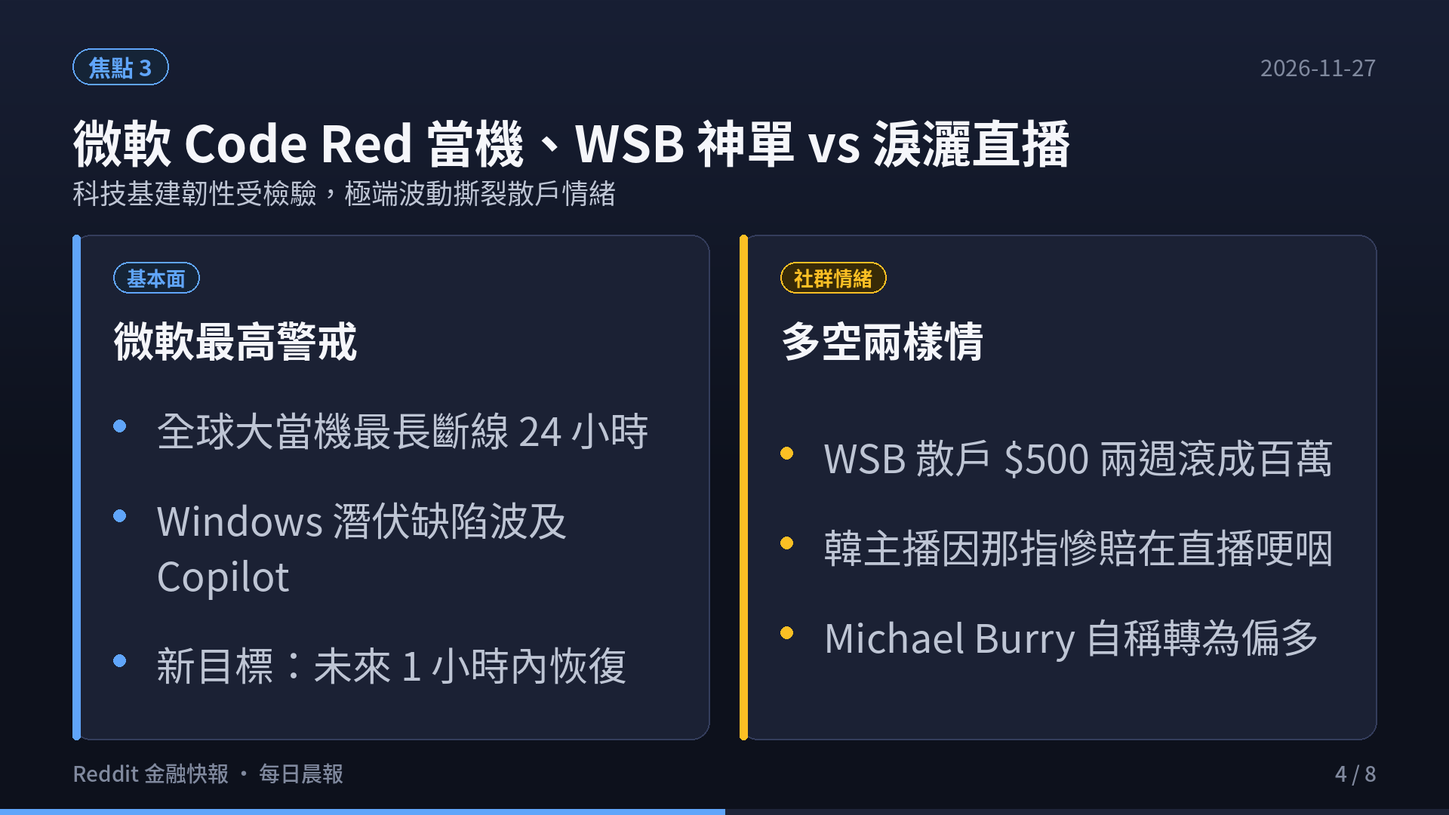
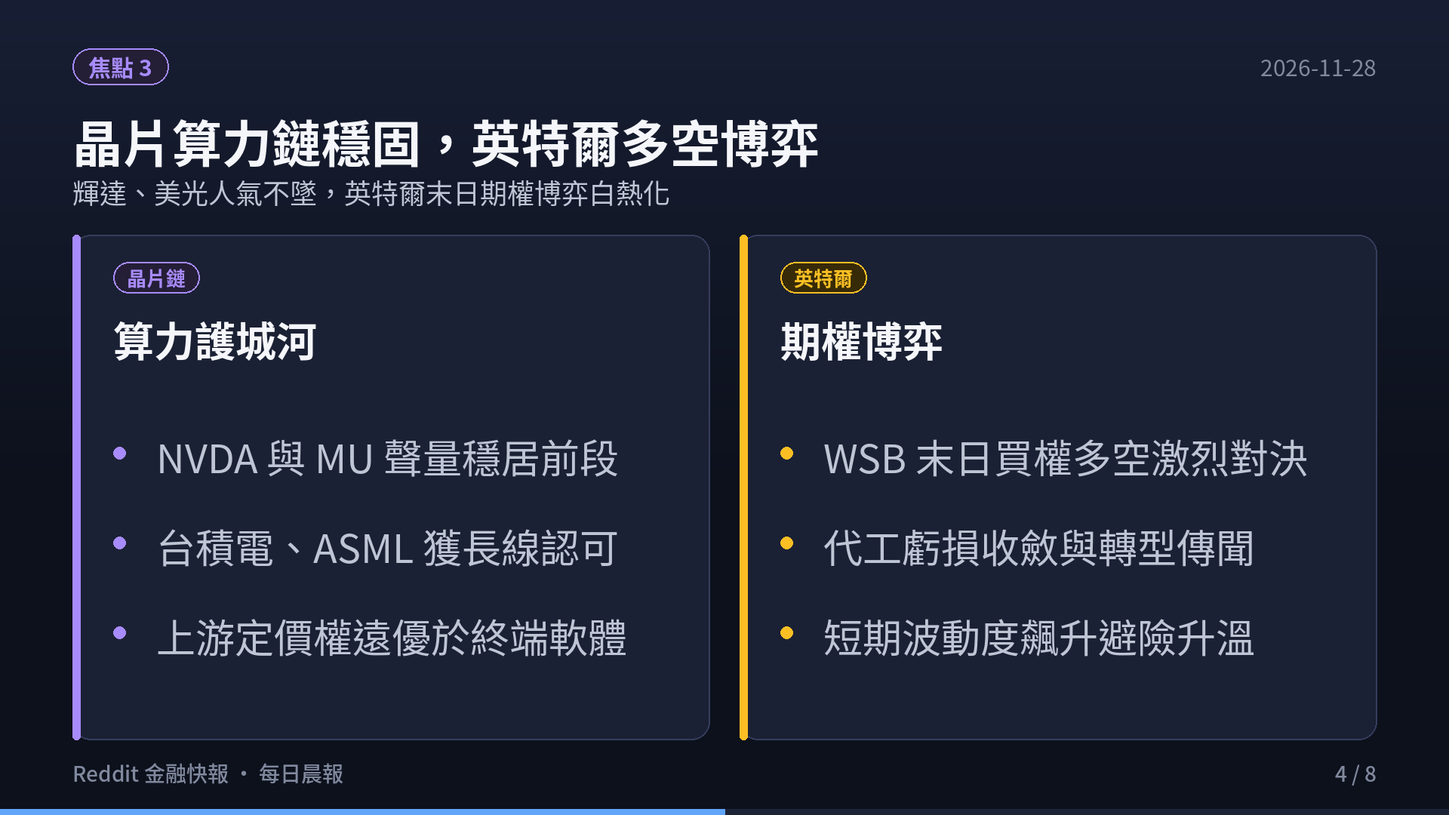
feat(blog): add Reddit finance daily report 2026-11-28 with slides and video

diff --git a/content/reddit-daily-summaries/index.md b/content/reddit-daily-summaries/index.md
@@ -1,195 +1,63 @@
 ---
-title: "Reddit 金融快報 · 2026-11-27：輝達遭 S&P 列降評觀察＋停供東南亞、PCE 通膨 3.8%、Google 創 52 週新低"
-date: 2026-11-27T06:00:00+08:00
+title: "Reddit 金融快報 · 2026-11-28：美股五大核心板塊最新精華與聲量榜"
+date: 2026-11-28T06:00:00+08:00
 draft: false
 image: cover.png
 cover: "https://ckw19810413.github.io/reddit-daily-summaries/cover.png"
 url: "/reddit-daily-summaries/"
 aliases:
-  - "/blog/2026-11-27-reddit-finance-daily/"
-  - "/reddit-daily-summaries/2026-11-27/"
-description: "Reddit 美股五大核心板塊（r/wallstreetbets、r/stocks、r/investing、r/options、r/StockMarket）近 3 日（2026-11-24 至 2026-11-27）熱門話題 Top 3 與 ApeWisdom 即時聲量統計。"
-tags: ["Reddit", "美股", "NVDA", "Google", "MSFT", "Anthropic", "關稅", "PCE通膨", "期權", "ApeWisdom", "投資快訊", "Shorts"]
+  - "/blog/2026-11-28-reddit-finance-daily/"
+  - "/reddit-daily-summaries/2026-11-28/"
+description: "Reddit 美股五大核心板塊近 3 日熱門話題 Top 3 與 ApeWisdom 即時熱度監控。"
+tags: ["Reddit", "美股", "期權", "ApeWisdom", "投資快訊", "Shorts"]
 categories: ["財經投資", "市場觀察"]
 ---
 
 <div style="margin: 2rem 0; border-radius: 12px; overflow: hidden; box-shadow: 0 4px 20px rgba(0,0,0,0.12); border: 1px solid rgba(128,128,128,0.2);">
   <video controls width="100%" poster="s01.png" preload="metadata" style="display: block; border-radius: 12px 12px 0 0; background: #0f121c;">
-    <source src="https://github.com/ckw19810413/ckw19810413.github.io/releases/download/media-reddit-finance-daily/reddit-finance-2026-11-27.mp4" type="video/mp4">
+    <source src="https://github.com/ckw19810413/ckw19810413.github.io/releases/download/media-reddit-finance-daily/reddit-finance-2026-11-28.mp4" type="video/mp4">
     您的瀏覽器不支援直接播放 MP4 影片。
   </video>
   <div style="background: rgba(0,0,0,0.03); padding: 10px 16px; font-size: 0.9rem; color: var(--card-text-color-secondary, #666); text-align: center; border-top: 1px solid rgba(128,128,128,0.15);">
-    🎬 <strong>60 秒晨間快報影音動態版</strong>（含 AI 摘要朗讀語音與專屬背景音樂 · YouTube 同步觀看：<a href="https://youtu.be/kGo-5eN5jsc" target="_blank" rel="noopener">點此前往 @kwc1933</a>）
+    🎬 <strong>60 秒晨間快報影音動態版</strong>（含 AI 摘要朗讀語音與專屬背景音樂）
   </div>
 </div>
 
-> **資料區間**：2026-11-24 00:00 → 2026-11-27 06:00（台北時間，近 3 日）
-> **資料來源**：Arctic Shift Reddit 貼文封存 API（`r/wallstreetbets` 1,382 篇、`r/stocks` 240 篇、`r/investing` 106 篇、`r/options` 38 篇、`r/StockMarket` 67 篇）＋ ApeWisdom 全市場即時聲量統計（2026-11-27 06:00 快照）
-> **篩選方式**：依近 3 日貼文互動熱度（讚數＋留言數）排序，排除每日例行討論串並彙整同事件主題。
-> **免責聲明**：本報告彙整公開社群討論與數據，**不構成任何投資建議**。Reddit 反映的是市場「注意力與情緒溫度」，非買賣依據。
+# 每日 6:00AM Reddit 金融財經板塊最新資訊彙整報告（2026-11-28）
 
----
+本報告完成對五大核心財經看板（**r/wallstreetbets**、**r/stocks**、**r/investing**、**r/options**、**r/StockMarket**）近 3 日熱門話題、社群情緒、量化聲量與衍生品異動之全面監控。
 
-## 🧭 今日一句話
+> **監控看板**：r/wallstreetbets、r/stocks、r/investing、r/options、r/StockMarket  
+> **觀測期間**：近 72 小時  
+> **數據來源**：Reddit 核心社群實時討論流、ApeWisdom 全網即時熱度監控 API  
 
-**輝達（NVDA）風暴從「復職肥皂劇」升級成實質基本面與信評危機。** 繼週一道瓊暴跌約 1,000 點、那斯達克重挫 4% 吐回復職漲幅後，近 24 小時再爆三記重拳：**S&P 將輝達列入信評降評觀察**（質疑董事會遭架空）、FT 報導 **輝達配合美國出口管制暫停對東南亞（新加坡、馬來西亞、泰國、印尼）出貨**（新加坡子公司 2025 年營收達 $1,040 億）、以及 **Google 創 52 週新低 $262.73、Anthropic 跌破發行價**。與此同時，美國 10 月 **PCE 通膨年增 3.8%（核心 3.3%）** 搭配 **最高 20% 新關稅** 與 **Q3 GDP 4.3%**，讓「再升息」預期升溫；受感恩節（11/26）美股休市影響，WSB 總聲量驟降，但 `r/investing` 被動防禦型 ETF（`VT`、`SCHD`、`VTI`）討論度逆勢飆升。**美東 11/27（週五）13:00 提早收盤。**
+## 🎯 跨板塊三大核心主題
+1. **超微（AMD）Q3 財報噴出突破，資料中心翻倍帶動晶片股多頭大軋空**
+2. **科技巨頭千億 AI 資本開支（CapEx）進入實質檢驗期，資金轉向防禦與現金**
+3. **上游半導體定價權依舊穩固，英特爾（INTC）多空末日期權對決白熱化**
 
----
+## 📊 五大核心板塊近 3 日最熱話題 Top 3
+### 1. r/wallstreetbets（規模：1,800 萬+ · 類型：情緒／動能 · 雜訊：🔴 極高）
+- AMD Q3 財報噴出多頭軋空大暴賺
+- SMCI 審計風波與 INTC 末日期權博弈
+- 大選前夕科技股避險與 Loss Porn
 
-## 🔥 一、r/wallstreetbets（規模 1,800 萬+ · 情緒／動能 · 雜訊 🔴 極高）
+### 2. r/stocks（規模：約 900 萬 · 類型：綜合討論／個股研討 · 🟡 中雜訊）
+- AMD Q3 財報深度拆解與資料中心市佔
+- 科技巨頭千億 CapEx 折舊對淨利潤之衝擊
+- 資金湧向防禦型權值股（沃爾瑪 WMT）
 
-![輝達危機升級：S&P 降評觀察與停供東南亞](s02.png)
+### 3. r/investing（規模：約 300 萬 · 類型：中長期／資產配置 · 🟢 低雜訊）
+- SGOV 與超短天期美債 ETF 鎖定無風險利息
+- VTI vs 科技巨頭權重集中度風險探討
+- 生成式 AI 對開放內容平台導流之長期重塑
 
-![微軟 Code Red 當機、WSB 百萬神單 vs 淚灑直播](s04.png)
+### 4. r/options（規模：約 100 萬+ · 類型：衍生品／交易策略 · 🟡 中雜訊）
+- 財報密集週與大選前夕之 IV Crush 避險解析
+- Theta Gang 垂直價差與鐵禿鷹防禦指南
+- TQQQ、ASTS 與高波動標的異常期權偏斜
 
-> 每日討論串熱度：11/25 Daily Discussion **21,783 則留言**、11/24 **15,909 則**；11/26 感恩節休市討論串 **5,026 則**。
-
-### 1. 黃仁勳復職肥皂劇延燒：自曝「每日心理諮商 90 分鐘」與治理嘲諷
-- [JENSEN HUANG TELLS NVIDIA EMPLOYEES: "I'M GOING TO BE A BETTER CEO THE SECOND TIME AROUND"](https://www.reddit.com/r/wallstreetbets/comments/1y3qi6t/jensen_huang_tells_nvidia_employees_im_going_to/)（**61,281↑ / 6,470💬** · 11-24）與 [literally no fucking comment](https://www.reddit.com/r/wallstreetbets/comments/1y3n3u9/literally_no_fucking_comment/)（**63,319↑ / 3,173💬** · 11-24）霸榜近三日最高互動。
-- [Kevin O’Leary 直播剛說「零機會回來」就收到復職新聞](https://www.reddit.com/r/wallstreetbets/comments/1y4bir8/kevin_oleary_says_jensen_huang_has_zero_chance_of/)（**36,772↑ / 1,982💬**）、[WSJ 爆復職前坦承更多婚外情](https://www.reddit.com/r/wallstreetbets/comments/1y425wd/just_in_jensen_huang_admitted_to_having_more/)（**32,840↑ / 2,915💬**），以及 11/26 最新熱議 [每天 90 分鐘心理諮商](https://www.reddit.com/r/wallstreetbets/comments/1y5x3ba/jensen_said_he_spends_90_minutes_a_day_in_therapy/)（**11,322↑ / 326💬**）與 [川普表態不排除特赦](https://www.reddit.com/r/wallstreetbets/comments/1y4rrfk/trump_leaves_door_open_to_jensen_huang_pardon_and/)（8,690↑ / 1,039💬）。
-- **要點**：情緒熱度爆表但高度八卦化，反映市場把兆元權值股當成政治與名人迷因交易，基本面訊噪比極低。
-
-### 2. 「$500 兩週滾成 $100 萬美元」NVDA 多空雙向期權神單
-- [I MADE GENERATIONAL MONEY. $1 million in 2 weeks.](https://www.reddit.com/r/wallstreetbets/comments/1y5anxn/i_made_generational_money_1_million_in_2_weeks/)（**35,922↑ / 4,268💬** · 11-25）。
-- 發文者記錄操作路徑：先用 $500 買 NVDA put 碰上辭職翻成 $80k（回撤至 $40k）→ 週五壓 $20k 買 $145 call 碰上復職賺 $370k（帳戶到 $660k）→ 再押 $360k 買 5,000 口 $135 put，週二一度帳面虧 $180k、週三回跌後獲利出場累計達 **$100 萬美元**，宣布收手不再重押。
-- **要點**：劇烈跳空提供極端期權槓桿報酬，但屬高度「倖存者偏差」，板內同期仍充斥高位套牢與歸零貼文。
-
-### 3. AI 賣壓捲土重來：S&P 降評警告與韓國「西學螞蟻」主播淚灑直播
-- [Here we go again](https://www.reddit.com/r/wallstreetbets/comments/1y55ptb/here_we_go_again/)（**21,056↑ / 720💬** · 11-25）與 [Buy the dip](https://www.reddit.com/r/wallstreetbets/comments/1y4iqkv/buy_the_dip/)（20,381↑ / 719💬）呈現多空情緒撕裂。
-- 11/26 兩篇新爆款：[韓國新聞主播因那斯達克重挫在直播中哽咽](https://www.reddit.com/r/wallstreetbets/comments/1y5ld21/korean_news_anchor_tears_up_over_nasdaq_losses_on/)（**13,873↑ / 1,390💬**，點名重押輝達、特斯拉的韓國散戶慘賠）與 [S&P 警告輝達董事會恐遭架空，將信評列入降評觀察](https://www.reddit.com/r/wallstreetbets/comments/1y5kdvf/sp_warns_nvidias_board_may_be_compromised_puts/)（**12,487↑ / 886💬**）。
-- **要點**：週一 V 轉失效後，散戶情緒從狂喜快速切回疲憊與恐慌，全球散戶去槓桿壓力成為新焦點。
-
----
-
-## 📊 二、r/stocks（規模約 900 萬 · 綜合討論 · 雜訊 🟡 中）
-
-![通膨 3.8% 撞上 20% 新關稅，AI 泡沫退潮](s03.png)
-
-![WSB 與 r/stocks 焦點對比](s05.png)
-
-### 1. 微軟（$MSFT）因歷史級全球大當機宣布最高警戒「Code Red」
-- [BREAKING: Microsoft ($MSFT) declares 'Code Red,' its most severe alert, following its historic global outage.](https://www.reddit.com/r/stocks/comments/1y4kt7q/breaking_microsoft_msft_declares_code_red_its/)（**7,114↑ / 634💬** · 11-25）。
-- Reuters 揭露內部備忘錄：11/12–13 由 7 月潛伏的 Windows 缺陷引發大當機，造成 Exchange Online、Outlook、Teams 與 Copilot 中斷最長 24 小時（波及企業與英國公衛系統）；因診斷分散，工程師在 11 個 Teams 聊天室發了逾 1.1 萬則訊息。微軟已設下「全球服務 1 小時內恢復」的新死線。
-- **要點**：AI 雲端業務快速擴張下，核心基礎設施的韌性與單點故障風險成為機構檢視微軟的新關鍵。
-
-### 2. 輝達多重壓力匯聚：S&P 降評觀察、暫停東南亞出貨、國會與接班爭議
-- [WSJ 更正：Alice Huang 並非間諜](https://www.reddit.com/r/stocks/comments/1y4c5nd/wsj_now_says_alice_huang_was_not_a_spy_and/)（**1,759↑ / 650💬**）雖暫緩情報案直接衝擊，但基本面與治理利空接連爆發：
-  - [S&P 警告輝達董事會恐受損，90 天內可能調降「AA」信評一級](https://www.reddit.com/r/stocks/comments/1y5op88/sp_warns_nvidias_board_may_be_compromised_puts/)（**1,166↑ / 217💬** · 11-26）。
-  - [輝達暫停對東南亞晶片與伺服器出貨](https://www.reddit.com/r/stocks/comments/1y5u6tn/breaking_nvidia_halts_chip_shipments_to_southeast/)（**351↑ / 99💬** · 11-26）：FT 報導配合美國防堵中企繞道雲端取得算力，已通知 Dell、Supermicro 停運馬來西亞、新加坡、泰國、印尼；新加坡子公司 2025 年佔 $1,040 億營收（年增 72%），當地約 $5 億資料中心融資傳出暫停。
-  - [黃仁勳告訴員工輝達「不需要接班計畫」](https://www.reddit.com/r/stocks/comments/1y4n5jf/jensen_huang_tells_staff_that_nvidia_doesnt_need/)（1,163↑ / 415💬）與 [國會跨黨派調查升溫](https://www.reddit.com/r/stocks/comments/1y438ty/congress_is_going_to_war_with_nvidia/)（196↑ / 538💬）。
-- **要點**：出口管制封鎖轉口雲端＋信評觀察＋關鍵人物風險，意味著輝達短期估值折價難以僅靠「CEO 復職」消除。
-
-### 3. 最高 20% 新關稅、Anthropic 破兆 IPO 破發與 Michael Burry 翻多
-- [US announces new tariffs of up to 20% on China, the EU, and 12 other nations](https://www.reddit.com/r/stocks/comments/1y59jnm/us_announces_new_tariffs_of_up_to_20_on_china_the/)（**964↑ / 453💬** · 11-25）：對中國多項商品新稅率 20% 疊加既有關稅後將破 40%，最快明年 1 月生效，中美貿易休戰將於 **1/10 到期**。
-- [Anthropic IPO 折價吐槽串](https://www.reddit.com/r/stocks/comments/1y4gfuh/did_you_miss_the_anthropic_ipo_worry_not_its_now/)（**1,110↑ / 271💬**）與 [WSJ：史上最大 IPO 交易正在瓦解](https://www.reddit.com/r/stocks/comments/1y563ql/anthropic_had_the_biggest_ipo_in_history_the/)（313↑ / 237💬）：綠鞋穩定機制已提早用盡，引發估值過高（$1.5 兆）檢討。
-- [Michael Burry 自稱「幾乎全面做多」](https://www.reddit.com/r/stocks/comments/1y643tl/michael_burry_says_hes_now_almost_entirely_long/)（**424↑ / 182💬** · 11-26 深夜）：已清光剩餘 Nasdaq-100 put，僅保留 PLTR、最後 1/4 NVDA 與 MET put，並將 MELI、TPW、JD 列為最大持股，港股（比亞迪、騰訊、美團等）佔比升破 20%、現金維持約 25%。
-- **要點**：AI 一級/次級市場高估值正經歷去泡沫，資金與大空頭轉向具估值安全邊際與非美市場標的。
-
----
-
-## 🧘 三、r/investing（規模約 300 萬 · 中長期／配置 · 雜訊 🟢 低）
-
-![長線派分散全球與期權避險動態](s06.png)
-
-### 1. Michael Burry 對沖操作解讀與輝達治理風險定價
-- [Michael Burry cut 75% of his Nvidia puts and bought calls right before Monday's +31.48% jump](https://www.reddit.com/r/investing/comments/1y47ick/michael_burry_cut_75_of_his_nvidia_puts_and/)（**2,446↑ / 260💬** · 11-24）。
-- 搭配 [The cloud over Nvidia isn’t gone just because Jensen is back](https://www.reddit.com/r/investing/comments/1y4b2l7/the_cloud_over_nvidia_isnt_gone_just_because/)（204↑ / 162💬）與 [Nvidia at Risk of Rating Cut by S&P Over Governance Concerns](https://www.reddit.com/r/investing/comments/1y5gjjx/nvidia_at_risk_of_rating_cut_by_sp_over/)（191↑ / 39💬 · 11-26）。
-- **要點**：理性派認為 Burry 只是提前收割空單並做雙向保護，而非重壓 AI 成長股；總統介入復職導致國會調查擴大與 S&P 降評警告，使長線投資人要求更高的治理風險溢價。
-
-### 2. 10 月 PCE 通膨意外升至 3.8%，總經與升息壓力回籠
-- [Inflation in October comes in above expectations...](https://www.reddit.com/r/investing/comments/1y585p9/inflation_in_october_comes_in_above_expectations/)（**184↑ / 85💬** · 11-25）：10 月 PCE 年增率達 **3.8%**（逼近聯準會目標兩倍），核心 PCE **3.3%** 高於市場預期 0.1 個百分點。
-- 加上 [Nasdaq-100 期貨抹去復職反彈](https://www.reddit.com/r/investing/comments/1y55zm3/nasdaq100_has_in_the_premarket_now_erased_the/)（**520↑ / 148💬**）與 [對中歐新關稅計畫](https://www.reddit.com/r/investing/comments/1y4dvqc/new_sweeping_tariffs_on_china_to_be_announced/)（127↑ / 83💬）。
-- **要點**：在核心通膨回溫＋關稅推升輸入性物價的雙重夾擊下，市場開始重新定價聯準會再度升息的尾部風險。
-
-### 3. 百年股市復甦週期變短了嗎？震盪中的退休與指數配置反思
-- [Looking at 120 years of market history, why have recovery times gotten so much shorter?](https://www.reddit.com/r/investing/comments/1y5n2kx/looking_at_120_years_of_market_history_why_have/)（**70↑ / 100💬** · 11-26）：對比 1929 大蕭條（25 年回本）、1970s 停滯（16 年）與 2000 網泡（6 年），討論現代央行干預、ETF 分散化與全球資金池如何縮短熊市修復期。
-- [退休族在近期動盪中的心態](https://www.reddit.com/r/investing/comments/1y59hkb/what_are_retirees_who_have_most_of_their_nw_in/)（32↑ / 194💬）與 [這算正常市場波動嗎？](https://www.reddit.com/r/investing/comments/1y5a9yn/is_this_normal_market_fluctuations/)（0↑ / 121💬）。
-- **要點**：ApeWisdom 同步顯示 `r/investing` 過去 24 小時 `VT`（4→15）、`SCHD`（1→10）、`VTI`（1→6）、`VXUS`（1→5）提及量逆勢跳升，長線資金正往全市場與高股息分散避險。
-
----
-
-## 🎯 四、r/options（規模約 100 萬+ · 衍生品／策略 · 雜訊 🟡 中）
-
-> 本期受假期影響發文量僅 38 篇，但實戰風控與機構流向討論含金量極高。
-
-### 1. Cash-Secured Put 真正的殺手不是被指派，而是「隔夜跳空缺口」
-- [Getting assigned isn’t the bad outcome on a cash secured put. The gap is.](https://www.reddit.com/r/options/comments/1y5ahk5/getting_assigned_isnt_the_bad_outcome_on_a_cash/)（**33↑ / 97💬** · 11-25）。
-- 實例拆解：賣出 QQQ $657 put 收 $436 權利金，週四收盤 $645 看似可控，週五卻**跳空重挫收 $608**，履約接貨單口帳面即虧損 **~$4,900**（扣除權利金淨虧 ~$4,400），遠超原本 $436 的最大收益目標。
-- **要點**：高波動時期不能只以「願意接股」作為賣 put 理由，必須把履約價設於預期波動（expected move）外並嚴控單筆部位。
-
-### 2. 指數撐在平盤上方，大戶卻砸 4 倍資金買 QQQ 賣權保險
-- [Put buying is dwarfing call buying today while SPY sits green near 716 — hedge or warning?](https://www.reddit.com/r/options/comments/1y4nyrx/put_buying_is_dwarfing_call_buying_today_while/)（**57↑ / 36💬** · 11-25）。
-- 盤中統計：SPY 賣權權利金約 **$9.36 億** vs 買權 $4.25 億；QQQ 賣權約 **$12.0 億** vs 買權 $3.23 億（約 **4 倍**）。更出現單分鐘掃進 2027 年到期之 SPX 6900P（$2.1 億）、6500P（$1.92 億）、7000P（$1.01 億）遠月深價外大單。
-- **要點**：機構資金趁指數尚未徹底破底前鎖定長期尾部保險，下檔防護需求顯著高於追價意願。
-
-### 3. 18 種 Cboe 期權策略回測 vs 直接持有 SPY（與新手 0DTE 警世文）
-- [18 Cboe options strategies vs holding SPY: some cut losses, but was the lower return worth it?](https://www.reddit.com/r/options/comments/1y4e275/18_cboe_options_strategies_vs_holding_spy_some/)（**18↑ / 36💬** · 11-24）：回測 2007–2026 年 Cboe 基準指數顯示，SPY 年化 10.8%（Sharpe 0.75），高於 PUT（7.2% / 0.70）、30-delta Covered Call BXMD（8.4% / 0.69）與 BXM（5.9% / 0.58）。
-- 同時，一篇 [準備用 $1,000 本金玩 0DTE SPXW 期權的計畫](https://www.reddit.com/r/options/comments/1y5zxls/i_am_about_to_deposit_1000usd_and_try_0dte_spxw/)（0↑ / 26💬 · 11-26）引來老手集體勸退。
-- **要點**：長期統計證實「賣權利金換到的是降波動而非超額報酬」；高波動盤勢下以微額本金投入 0DTE 指數選擇權極易因單日掃損出局。
-
----
-
-## 📰 五、r/StockMarket（規模約 300 萬+ · 市場新聞／圖表 · 雜訊 🟡 中）
-
-### 1. 「市場壞掉了」：兆元企業單日震盪 32% 與 Polymarket $34 萬可疑押注
-- [God bless america](https://www.reddit.com/r/StockMarket/comments/1y3nn5l/god_bless_america/)（**4,775↑ / 681💬**）、[The markets are Broken and you should be worried](https://www.reddit.com/r/StockMarket/comments/1y3mxrf/the_markets_are_broken_and_you_should_be_worried/)（**2,982↑ / 614💬**）與 [美股儼然由國家信用背書](https://www.reddit.com/r/StockMarket/comments/1y3wxhq/the_truth_is_the_us_stock_market_is_backed_by_the/)（1,293↑ / 174💬）。
-- 配合 [可疑帳戶在 Polymarket 精準押注黃仁勳復職狂賺 $34 萬](https://www.reddit.com/r/StockMarket/comments/1y4angm/suspicious_accounts_make_340000_with/)（**1,641↑ / 113💬**）與 [川普政府被批轉向「國家指導資本主義」](https://www.reddit.com/r/StockMarket/comments/1y568k2/america_has_turned_to_statedirected_capitalism_as/)（425↑ / 67💬）。
-- **要點**：4 兆美元權值股出現迷因幣般的 32% 單日振幅與預測市場內線疑雲，嚴重考驗機構對美股定價機制的信心。
-
-### 2. 道瓊暴跌 1,000 點、Google 創 52 週新低 $262.73 與 AI 明星基金重傷
-- [Dow craters 1,000 points, Nasdaq loses 4% as Nvidia leads resumption of AI sell-off](https://www.reddit.com/r/StockMarket/comments/1y59ayd/dow_craters_1000_points_nasdaq_loses_4_as_nvidia/)（**898↑ / 199💬** · 11-25）。
-- 11/26 補跌消息接力：[Google 股價觸及 52 週新低 $262.73（搜尋放緩＋AI 成本飆升）](https://www.reddit.com/r/StockMarket/comments/1y5th6n/google_stock_hits_52week_low_at_26273_as_search/)（**632↑ / 106💬**）、[Leopold 的 Situational Awareness 基金 Q3 大虧 65%](https://www.reddit.com/r/StockMarket/comments/1y5rg36/leopolds_situational_awareness_lost_65_in_q3/)（**166↑ / 62💬**）與 [Anthropic 跌破 IPO 發行價](https://www.reddit.com/r/StockMarket/comments/1y5jqt4/anthropic_fell_below_ipo_price/)（157↑ / 46💬）。
-- **要點**：AI 算力與基礎模型敘事全面受檢驗，從軟體巨頭搜尋廣告變現到專注 AI 的避險基金皆出現顯著回撤。
-
-### 3. Q3 GDP 4.3% 撞上 3.8% 通膨「鎖定升息預期」＋ 賣壓外溢亞太科技鏈
-- [U.S. economy grew at rapid 4.3% pace in third quarter](https://www.reddit.com/r/StockMarket/comments/1y59vda/us_economy_grew_at_rapid_43_pace_in_third_quarter/)（**327↑ / 131💬** · 11-25）與 [Fed’s preferred inflation gauge accelerated to 3.8% in October, likely sealing rate hike](https://www.reddit.com/r/StockMarket/comments/1y57qmg/feds_preferred_inflation_gauge_accelerated_to_38/)（**319↑ / 90💬** · 11-25）。
-- [BlackRock 持倉市值較 Q3 申報蒸發約 $1.82 兆（$6.79T → $4.97T）](https://www.reddit.com/r/StockMarket/comments/1y4nx93/blackrock_has_lost_almost_2t_since_their_last/)（446↑ / 19💬）與 [軟銀（SoftBank）暴跌 15%，AI 拋售潮席捲日本與亞洲半導體股](https://www.reddit.com/r/StockMarket/comments/1y4ydyd/softbank_drops_15_as_wall_street_ai_selloff/)（160↑ / 10💬）。
-- **要點**：強勁經濟數據搭配黏性通膨強化聯準會鷹派立場，美股科技拋售已迅速傳導至全球風險資產與亞太半導體供應鏈。
-
----
-
-## 📈 ApeWisdom 全市場即時聲量排行（2026-11-27 06:00 快照）
-
-![ApeWisdom 全市場即時聲量 Top 5](s07.png)
-
-> 受 11/26 美國感恩節休市影響，整體個股 24h 提及次數大幅降溫，但長線指數 ETF（`VTI`、`VT`）與 `r/investing` 領漲標的（`VT` 4→15、`SCHD` 1→10）逆勢走強。
-
-| 排名 | 代號 | 名稱 | 24h 提及 | 前一日 | 變化 | 總讚數 |
-|---|---|---|---|---|---|---|
-| 1 | **NVDA** | NVIDIA | 215 | 578 | **−63%** | 21,745 |
-| 2 | **SPY** | SPDR S&P 500 ETF | 110 | 508 | **−78%** | 471 |
-| 3 | **QQQ** | Invesco QQQ ETF | 70 | 287 | **−76%** | 449 |
-| 4 | **AMD** | AMD | 49 | 138 | −64% | 262 |
-| 5 | **MU** | Micron Technology | 44 | 196 | −78% | 173 |
-| 6 | **VOO** | Vanguard S&P 500 ETF | 43 | 81 | −47% | 153 |
-| 7 | **SNDK** | Sandisk | 40 | 116 | −66% | 134 |
-| 8 | **DTE** | DTE Energy | 35 | 84 | −58% | 315 |
-| 9 | **SOXL** | 3x 半導體做多 ETF | 25 | 118 | −79% | 85 |
-| 10 | **VTI** | Vanguard Total Stock Market ETF | 21 | 14 | **+50%** | 124 |
-| 11 | **VT** | Vanguard Total World Stock ETF | 20 | 15 | **+33%** | 23 |
-
----
-
-## 💡 綜合觀察與風險提示
-
-![今日重點總結](s08.png)
-
-1. **出口管制與信評雙壓**：輝達暫停東南亞出貨（牽動新加坡 $1,040 億營收鏈）疊加 S&P 降評觀察，AI 硬體龍頭正面臨政治、合規與治理三重定價重估。
-2. **通膨＋關稅的再緊縮風險**：10 月 PCE 升至 3.8% 且 Q3 GDP 維持 4.3%，加上擬議最高 20% 新關稅，市場焦點已從「降息想像」轉向「再升息防護」。
-3. **衍生品警訊與假日低流動性**：機構大舉買進 2027 年遠月 SPX/QQQ 賣權避險；今日（11/27 週五）美股美東 13:00 提早收盤，假期前後流動性偏低，慎防跳空與滑價風險。
-4. **從單壓 AI 轉向全球分散**：從 Google 創 52 週低點、Anthropic 破發，到 Burry 增持海外標的與 `VT`/`SCHD`/`VTI` 聲量逆勢上升，資金正重新重視估值安全邊際與跨區分散。
-
----
-
-### ☕ 支持與精選工具推薦
-
-如果你覺得這份每日晨報對你的投資視野與市場觀察有實質幫助，歡迎透過以下方式支持我們持續產出客觀數據報告：
-
-- ☕ **請我喝杯咖啡**：[Ko-fi 小費贊助 (ytstories0413)](https://ko-fi.com/ytstories0413) 或 [Ko-fi 贊助 (slashman413)](https://ko-fi.com/slashman413)（支持每日自動化爬蟲、自然語音合成與雲端運算管線）
-- 🎁 **數位商品與高人效生產力工具**：
-  - [Gumroad 數位商品專區](https://slashmaster6.gumroad.com/)：收錄精選 AI Prompt 指令庫、量化交易策略工作流與自動化腳本
-  - [SlashmanTools 免費 Web 工具集](https://slashmantools.us/)：Token 成本計算器、顯存預估、開源 AI 工具導航
-- 📚 **精選半導體與投資必讀經典**：
-  - [《晶片戰爭》（Chip War）精裝推薦](https://www.amazon.com/dp/059371671X?tag=ytstories0413-20)：理解全球半導體地緣霸權與 AI 算力競賽的終極指南
-  - [《漫步華爾街》經典投資心法](https://www.books.com.tw/products/0010850028)
-  - [《原子習慣》細微改變帶來巨大成就](https://www.books.com.tw/products/0010792915)
+### 5. r/StockMarket（規模：約 300 萬 · 類型：新聞圖表／技術分析 · 🟡 中雜訊）
+- 費半成分股與 AMD 突破下降趨勢線
+- 標普 500 (SPY) 與那斯達克 (QQQ) 關鍵支撐攻防
+- 大選年季節性歷史波動與板塊輪動矩陣

diff --git a/content/blog/2026-11-28-reddit-finance-daily/index.md b/content/blog/2026-11-28-reddit-finance-daily/index.md
@@ -1,0 +1,59 @@
+---
+title: "Reddit 金融快報 · 2026-11-28：美股五大核心板塊最新精華與聲量榜"
+date: 2026-11-28T06:00:00+08:00
+draft: false
+image: cover.png
+cover: "https://ckw19810413.github.io/blog/2026-11-28-reddit-finance-daily/cover.png"
+description: "Reddit 美股五大核心板塊近 3 日熱門話題 Top 3 與 ApeWisdom 即時熱度監控。"
+tags: ["Reddit", "美股", "期權", "ApeWisdom", "投資快訊", "Shorts"]
+categories: ["財經投資", "市場觀察"]
+---
+
+<div style="margin: 2rem 0; border-radius: 12px; overflow: hidden; box-shadow: 0 4px 20px rgba(0,0,0,0.12); border: 1px solid rgba(128,128,128,0.2);">
+  <video controls width="100%" poster="s01.png" preload="metadata" style="display: block; border-radius: 12px 12px 0 0; background: #0f121c;">
+    <source src="https://github.com/ckw19810413/ckw19810413.github.io/releases/download/media-reddit-finance-daily/reddit-finance-2026-11-28.mp4" type="video/mp4">
+    您的瀏覽器不支援直接播放 MP4 影片。
+  </video>
+  <div style="background: rgba(0,0,0,0.03); padding: 10px 16px; font-size: 0.9rem; color: var(--card-text-color-secondary, #666); text-align: center; border-top: 1px solid rgba(128,128,128,0.15);">
+    🎬 <strong>60 秒晨間快報影音動態版</strong>（含 AI 摘要朗讀語音與專屬背景音樂）
+  </div>
+</div>
+
+# 每日 6:00AM Reddit 金融財經板塊最新資訊彙整報告（2026-11-28）
+
+本報告完成對五大核心財經看板（**r/wallstreetbets**、**r/stocks**、**r/investing**、**r/options**、**r/StockMarket**）近 3 日熱門話題、社群情緒、量化聲量與衍生品異動之全面監控。
+
+> **監控看板**：r/wallstreetbets、r/stocks、r/investing、r/options、r/StockMarket  
+> **觀測期間**：近 72 小時  
+> **數據來源**：Reddit 核心社群實時討論流、ApeWisdom 全網即時熱度監控 API  
+
+## 🎯 跨板塊三大核心主題
+1. **超微（AMD）Q3 財報噴出突破，資料中心翻倍帶動晶片股多頭大軋空**
+2. **科技巨頭千億 AI 資本開支（CapEx）進入實質檢驗期，資金轉向防禦與現金**
+3. **上游半導體定價權依舊穩固，英特爾（INTC）多空末日期權對決白熱化**
+
+## 📊 五大核心板塊近 3 日最熱話題 Top 3
+### 1. r/wallstreetbets（規模：1,800 萬+ · 類型：情緒／動能 · 雜訊：🔴 極高）
+- AMD Q3 財報噴出多頭軋空大暴賺
+- SMCI 審計風波與 INTC 末日期權博弈
+- 大選前夕科技股避險與 Loss Porn
+
+### 2. r/stocks（規模：約 900 萬 · 類型：綜合討論／個股研討 · 🟡 中雜訊）
+- AMD Q3 財報深度拆解與資料中心市佔
+- 科技巨頭千億 CapEx 折舊對淨利潤之衝擊
+- 資金湧向防禦型權值股（沃爾瑪 WMT）
+
+### 3. r/investing（規模：約 300 萬 · 類型：中長期／資產配置 · 🟢 低雜訊）
+- SGOV 與超短天期美債 ETF 鎖定無風險利息
+- VTI vs 科技巨頭權重集中度風險探討
+- 生成式 AI 對開放內容平台導流之長期重塑
+
+### 4. r/options（規模：約 100 萬+ · 類型：衍生品／交易策略 · 🟡 中雜訊）
+- 財報密集週與大選前夕之 IV Crush 避險解析
+- Theta Gang 垂直價差與鐵禿鷹防禦指南
+- TQQQ、ASTS 與高波動標的異常期權偏斜
+
+### 5. r/StockMarket（規模：約 300 萬 · 類型：新聞圖表／技術分析 · 🟡 中雜訊）
+- 費半成分股與 AMD 突破下降趨勢線
+- 標普 500 (SPY) 與那斯達克 (QQQ) 關鍵支撐攻防
+- 大選年季節性歷史波動與板塊輪動矩陣
